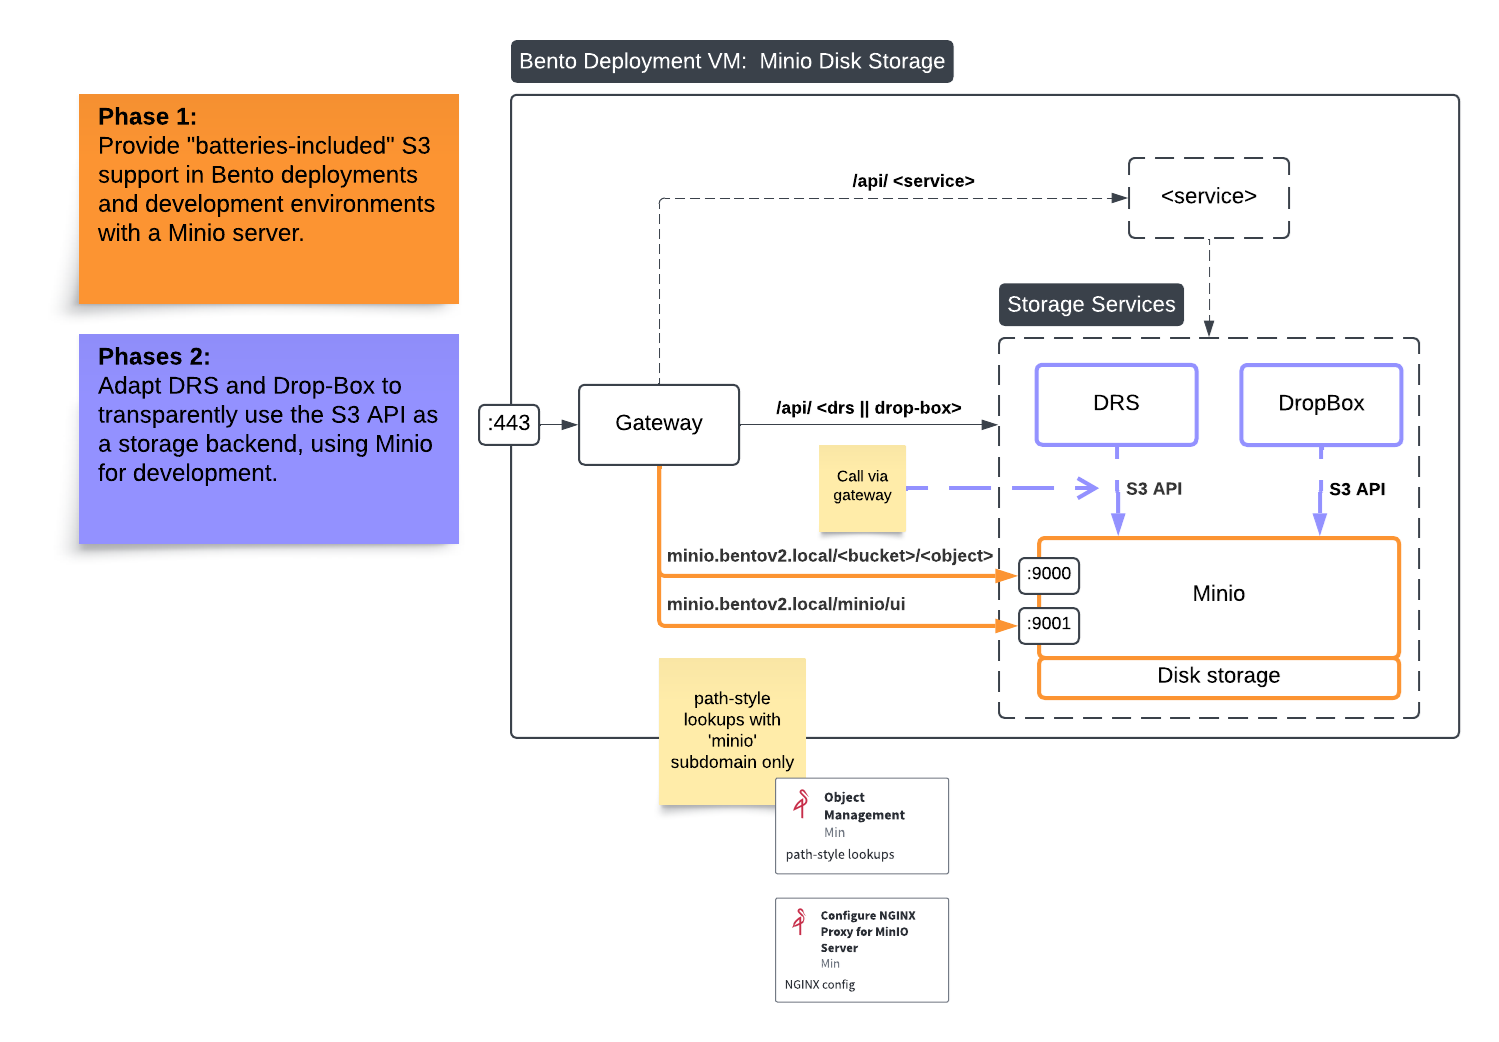
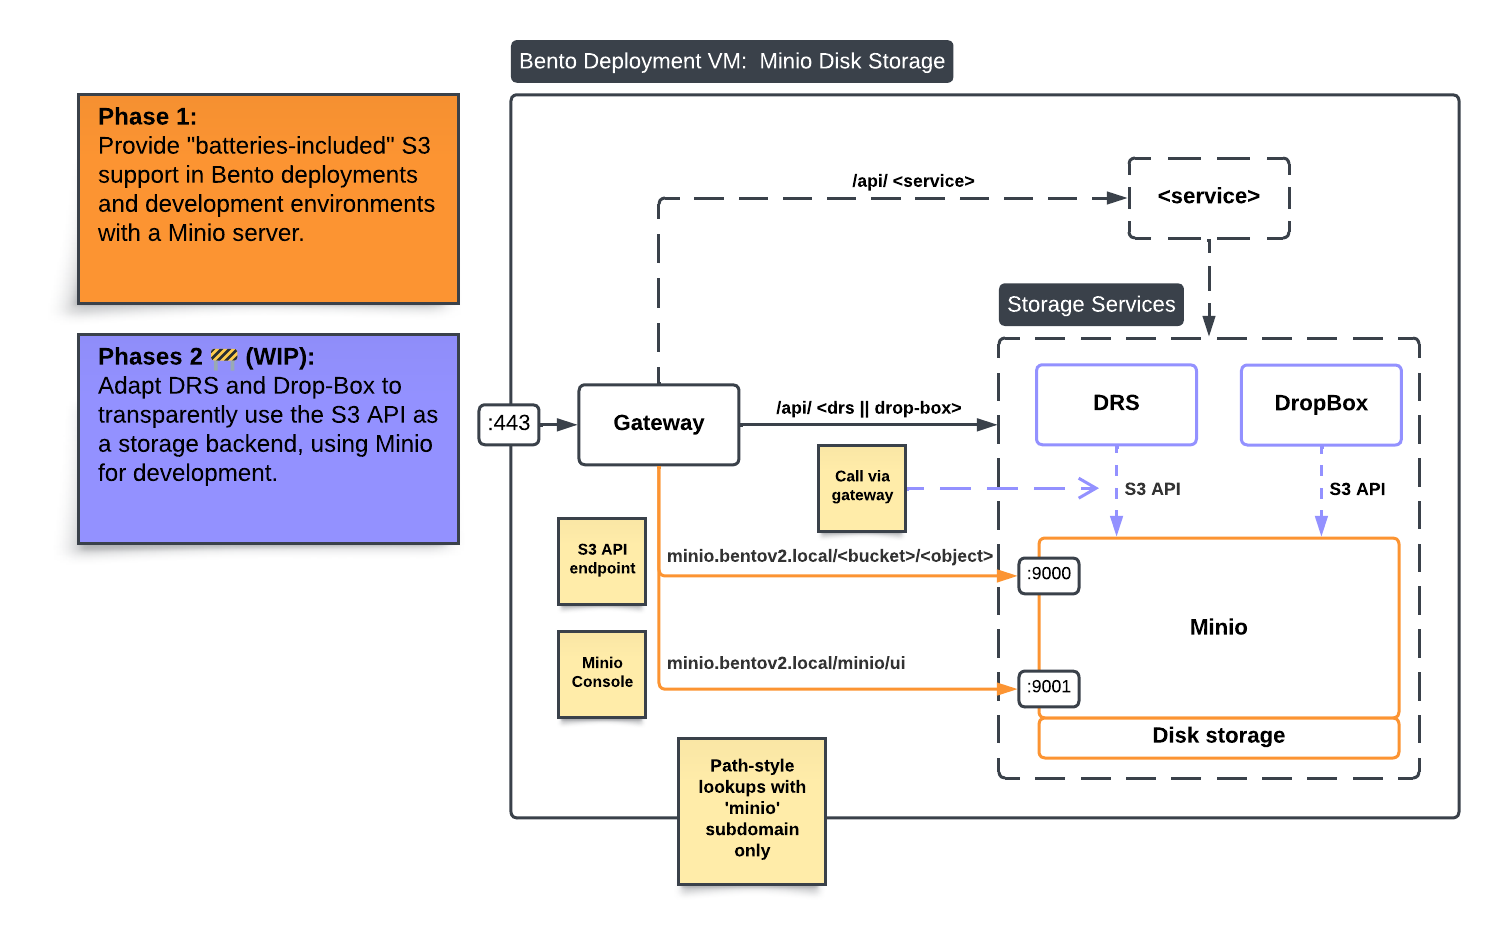
docs: minio setup and S3 api overview

diff --git a/docs/object-store.md b/docs/object-store.md
@@ -1,25 +1,128 @@
-# Bento object store
+# Bento MinIO
 
-![MinIO service logs querying](./img/minio_object_store.png)
+Bento can be deployed with a [MinIO](https://github.com/minio/minio) service.
+The MinIO service provides an [S3 compatible API](https://min.io/docs/minio/linux/reference/s3-api-compatibility.html) 
+for object storage.
+
+It is mostly intended for development and testing purposes with the S3 API, 
+as we are working on enabling S3 storage for Bento.
+
+For deployments, Bento instances requiring large storage capacity should rely on an external managed 
+S3 storage provider (AWS, Ceph, production MinIO cluster, etc). 
+This will allow Bento deployments to be decoupled from disk storage concerns.
+
+## Routing
+![MinIO local deployment](./img/minio_object_store.png)
+
+**Note:** As shown above, the MinIO service relies on disk storage, which is why
+production environments should consider external S3 storage instead.
 
 ## Configuration
 
-Enable MinIO by setting the feature flag in local.env
+To enable the MinIO service in a Bento deployment, please follow the instructions bellow.
+
+### Environment variables
+
+Enable MinIO by setting the feature flag and other required variables in `local.env`.
 
 ```bash
 BENTO_MINIO_ENABLED='true'
+BENTO_MINIO_ROOT_USER=root                  # default value, can be changed
+BENTO_MINIO_ROOT_PASSWORD=secure-password   # change to a secure pw
+BENTO_MINIO_DOMAIN=minio.${BENTOV2_DOMAIN}  # MUST be a subdomain of BENTOV2_DOMAIN
 ```
 
-After enabling the MinIO feature flag for the first time, 
+### Domain resolution
+
+In a VM using a trusted certificate authority, there should be a DNS record for `BENTO_MINIO_DOMAIN`.
+
+In a local development environment, you must specify how `BENTO_MINIO_DOMAIN` should be resolved, 
+simulating a DNS record for self-signed certificates.
+
+Assuming `BENTO_MINIO_DOMAIN=minio.bentov2.local`, add the following line to your `/etc/hosts` file:
+
+```bash
+# /etc/hosts
+127.0.0.1       minio.bentov2.local
+```
+
+### Initialize MinIO certificates, networking and directories
+
+After enabling the MinIO feature flag for the first time and setting domain resolution, 
 you must initialize the Docker networks, mounted directories and certs.
 ```bash
-./bentoctl.bash init-certs -f
-./bentoctl.bash init-docker # new network for MinIO
-./bentoctl.bash init-dirs 
+./bentoctl.bash init-certs -f   # creates the self-signed certificate for MinIO
+./bentoctl.bash init-docker     # creates the Docker network for MinIO
+./bentoctl.bash init-dirs       # creates MinIO's data directory to be mounted
 ```
 
-Also set root user and password in local.env:
+### Start MinIO
+
+If all previous steps were performed correctly, you are ready to restart the 
+gateway and start the MinIO service!
+
 ```bash
-BENTO_MINIO_ROOT_USER=root # (default value, could be change)
-BENTO_MINIO_ROOT_PASSWORD=secure-password
+# Will recreate the gateway container automatically and start MinIO.
+./bentoctl.bash run
 ```
+
+## Using the console
+
+The console can be accessed using a web browser, simply navigate to [minio.bentov2.local/minio/ui/](https://minio.bentov2.local/minio/ui/).
+
+Authenticate using `BENTO_MINIO_ROOT_USER` and `BENTO_MINIO_ROOT_PASSWORD`.
+
+Once logged in, you can issue access keys. These keys can be used to make 
+S3 API calls.
+
+## Using MinIO's S3 API
+
+Assuming you created an access key in the console and saved the values, 
+you are ready to make object storage operations through the S3 API.
+
+Interactions between clients and the S3 API all take place over HTTP.
+Many CLI tools and libraries are available to simplify these operations.
+
+### S3cmd
+
+[S3cmd](https://s3tools.org/s3cmd) is a popular CLI tool to interact with object stores that
+support the S3 protocol, including MinIO.
+
+Once S3cmd is installed on a machine, you can create a s3cmd configuration file for the S3 API
+endpoint of your choice.
+
+```bash
+# ~/.s3cfg-minio-local
+host_base = minio.bentov2.local     # S3 API endpoint (local here)
+host_bucket = minio.bentov2.local   
+use_https = True                    # Use HTTPS
+
+# For dev self-signed certs only
+check_ssl_certificate = False       # Enable if using trusted CA
+
+# Setup access keys
+access_key = <OBTAIN FROM MINIO CONSOLE>
+secret_key = <OBTAIN FROM MINIO CONSOLE>
+```
+
+With the S3cmd config file in place, you can start creating buckets, uploading files, and much more.
+
+```bash
+# list buckets (empty at first)
+s3cmd -c ~/.s3cfg-minio-local ls
+
+# Create a bucket named 'test'
+s3cmd -c ~/.s3cfg-minio-local mb s3://test
+
+# Upload a file to your new bucket!
+s3cmd -c ~/.s3cfg-minio-local put some-file.txt s3://test/some-file.txt
+```
+
+### Boto3
+
+[Boto3](https://boto3.amazonaws.com/v1/documentation/api/latest/guide/quickstart.html#installation) 
+is an official AWS Python package to interact with an S3 compatible object store.
+
+Like S3cmd, it must be configured to use access keys.
+
+Future work on DRS and Drop-Box will involve Boto3 to enable S3 storage in Bento.
